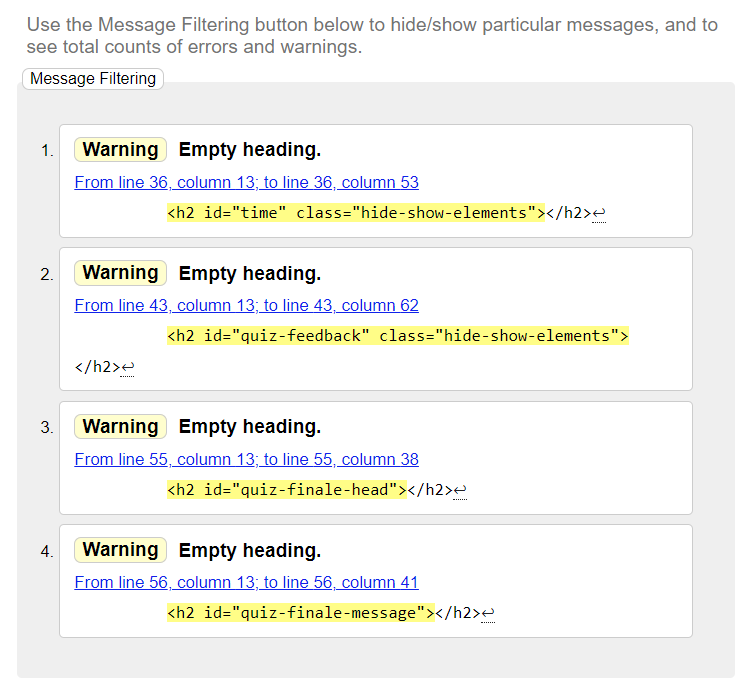
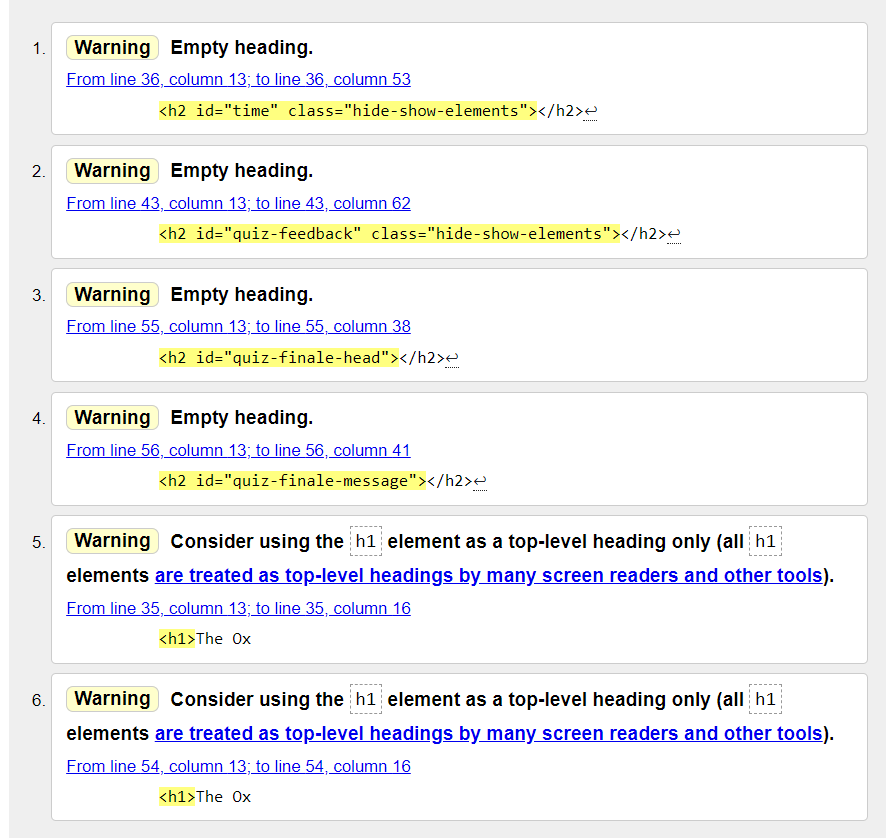
docs: correct and add missing texts; fix: update image for README.md, adjust min, max height properties in style.css, correct elements in index.html

Changed region(s): [[0.0305, 0.1831, 0.9469, 0.9767], [0.0305, 0.0, 0.9469, 0.1526]]

diff --git a/index.html b/index.html
@@ -31,7 +31,7 @@
             these elements while the home page displayed. These elements are displyed
             when the game is in play.
         -->
-        <div id="quiz-area">
+        <section id="quiz-area">
             <h1>The Oxnead Pub Quiz</h1>
             <h2 id="time" class="hide-show-elements"></h2>
             <h2 id="inst-score-heading">Instructions</h2>
@@ -49,8 +49,8 @@
                 <button type="button" id="next" disabled>Next</button>
                 <button type="button" id="reset-start" data-fieldtype="start">Start</button>    
             </div>    
-        </div>
-        <div id="quiz-finale">
+        </section>
+        <section id="quiz-finale">
             <h1>The Oxnead Pub Quiz</h1>
             <h2 id="quiz-finale-head"></h2>
             <h2 id="quiz-finale-message"></h2>
@@ -64,7 +64,7 @@
             <div id="quiz-finale-button">
                 <button type="button" id="button-close">Go To Home Page</button>
             </div>
-        </div>
+        </section>
     </main>
 
     

diff --git a/assets/css/style.css b/assets/css/style.css
@@ -33,12 +33,12 @@ main {
     border: .5rem #FFFFE0 double;
     border-radius: 1rem;
     padding: .5rem;
+    min-height: 600px;
     min-width: 280px;
-    min-height: 500px;
     height: 100%;
     width: 100%;
+    max-height: 653px;
     max-width: 420px;
-    max-height: 600px;
     position: absolute;
     left: 50%;
     top: 50%;

diff --git a/README.md b/README.md
@@ -22,11 +22,11 @@ HTML, CSS and Javascript.
 
 ## Design
 
-It is a game where the player has to answer all ten questions within sixty seconds. The game asks ten questins in random order, with each question being asked only once per gaming session. The user reponds to each question by tapping on one of the four buttons. Each of the 4 buttons display a possible answer in random order. The background colour goes green when the user selects the correct answer, red if the answer is wrong. After all the questions have been asked, a form will be displayed showing the score. A congratulatory message will be displayed if all the questions have been correctly. A \'Times Up!\' message will be displayed if the time has elapsed and the user has not answered all the questions. The user at any time can stop the game by tapping \'Reset\' and this will take it back to the home page.
+It is a game where the player has to answer all ten questions within sixty seconds. The game asks ten questins in random order, with each question being asked only once per gaming session. The user reponds to each question by tapping on one of the four buttons. Each of the 4 buttons display a possible answer in random order. The background colour goes green when the user selects the correct answer, red if the answer is wrong. After all the questions have been asked, the home page will be displayed showing the score. A congratulatory message will be displayed if all the questions have been correctly. A \'Times Up!\' message will be displayed if the time has elapsed and the user has not answered all the questions. The user at any time can stop the game by tapping \'Reset\' and this will take it back to the home page.
 
 ### Detects whether javascript is supported on the browser
 
-The first thing the website does is detect whether the browser supports javascript. If it does the form is display. Otherwise a no javascript support error message is displayed and does nothing afterwards.
+The first thing the website does is detect whether the browser supports javascript. If it does the home page is display. Otherwise a no javascript support error message is displayed and does nothing afterwards.
 
 ## Features
 
@@ -62,7 +62,7 @@ The following tests were carried out during the development of the game.
 
 #### Testing during development
 
-During the development the use of exception, i.e the use of the throw command, was used in functions where arguments are used. An exception would be generated if the arguments passed are not of the correct type, i.e. string, number, object, boolean etc.
+During the development the use of exception, i.e the use of the throw command, was used in functions where arguments are used. An exception would be generated if the arguments passed are not of the correct type, i.e. string, number, object, boolean etc. The following actions were carried out during development:-
 
 1. Test event handlers after adding them to buttons
 1. Test functions randoniser functions
@@ -73,6 +73,8 @@ During the development the use of exception, i.e the use of the throw command, w
 1. Test timer feature
 
 The testing was carried out repeatedly during development until no exceptions were generated and no bugs were found and no errors were encountered.
+
+The bugs that were encounterd were spelling mistakes in identifiers in variable, const and statements. These were corrected after testing.
 
 #### No Javascript support testing
 
@@ -92,9 +94,13 @@ Javascript is now disabled and the testing of the site can be carried out. The s
 
 The background has been tested to ensure it covers the whole viewport in the browser.
 
+The bug that was encountered on the first attempt was that the image did not cover the whole viewport. This was corrected by setting min-height property of the 'main' element to 100vh in CSS.
+
 #### Responsive Testing
 
 The website was tested on Google Chrome using the responsive feature on web developer tools after deployment. The site was tested against these devices: iPhoneSE, iPhoneXR, iPhone Pro 12, Pixel 5, Samsung Galaxy S8+, Samsung Galaxy S20 Ultra, iPad Air, iPad Mini, Surface Pro 7, Surface Duo, Galaxy Fold, Samsung Galaxy A51/71, Nest Hub, Nest Hub Max, Facebook on Android v407 on Pixel 6.
+
+By default the width and height properties of the div elements are set 100%. The setting of the min-height, min-width and max-width, max-height properties was done based on the results of testing of how it was displayed in the devices listed above.
 
 #### HTML Validation Test
 
@@ -104,7 +110,7 @@ The attribute, disabled, used on one the buttons had to be changed from, disable
 
 ![html validation test result](readme/w3c-html-validation-test.png)
 
-No errors were found however four warnings have issued: all to do with empty headings on the '\h2'\ elements.
+No errors were found however six warnings have been issued: four to do with empty headings on the '\h2'\ elements and two warnings about the use of \'h1\' elements.
 
 #### CSS Validation Test
 
@@ -128,7 +134,7 @@ After retesting it issued one warning as shown below.
 
 #### Lighthouse reports
 
-The reports have been genereated using Google Chrome after deployment to GitHub: one for mobile devices, the other for desktop.
+The reports have been produced using Google Chrome after deployment to GitHub: one for mobile devices, the other for desktop.
 
 ##### Mobile devices
 
@@ -140,7 +146,7 @@ The reports have been genereated using Google Chrome after deployment to GitHub:
 
 ### Unfixed Bugs
 
-There are no known bugs. All code was tested repeatedly during development until code is working correctly.
+There are no known bugs to fix. All code was tested repeatedly during development until code is working correctly.
 
 ## Deployment
 
